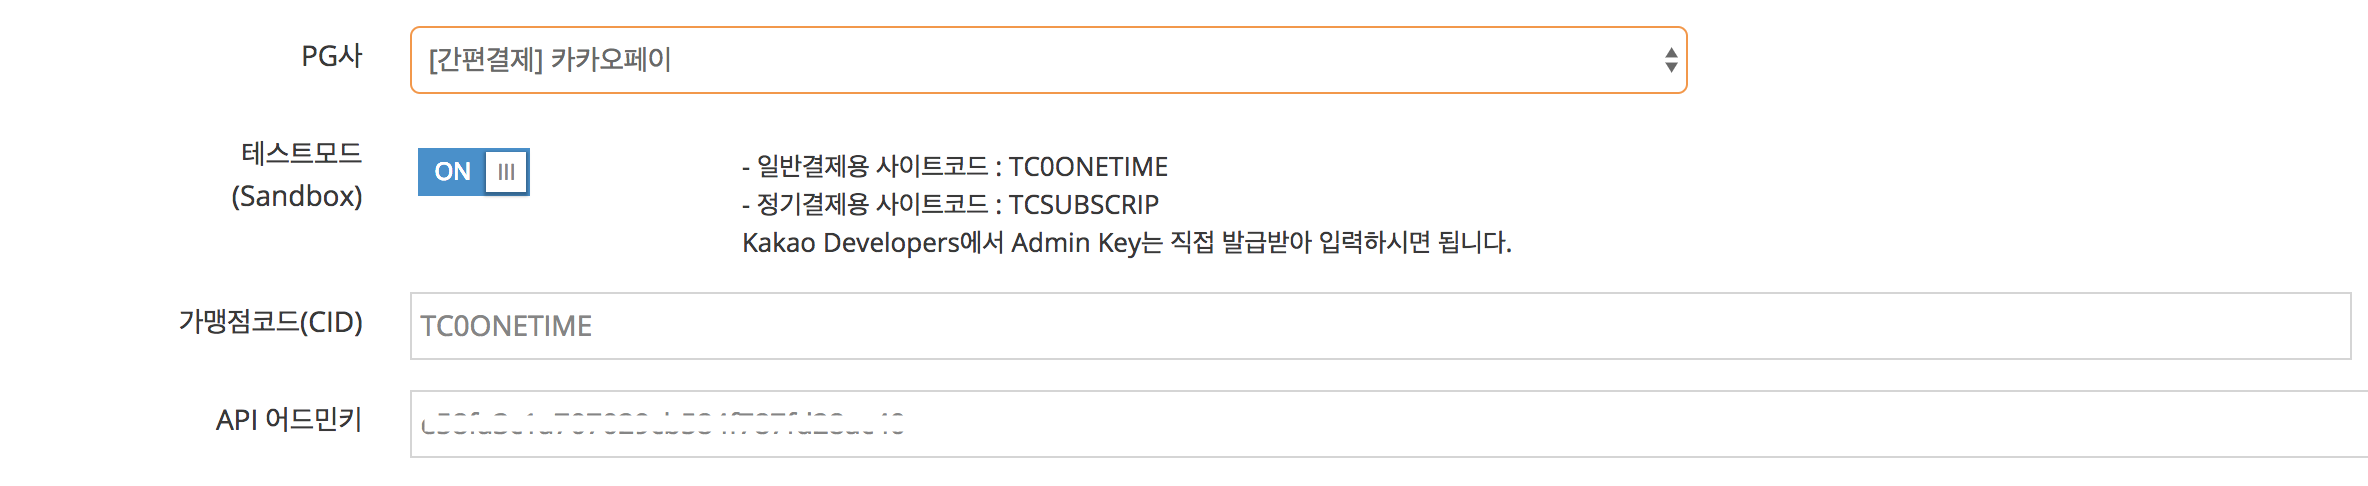
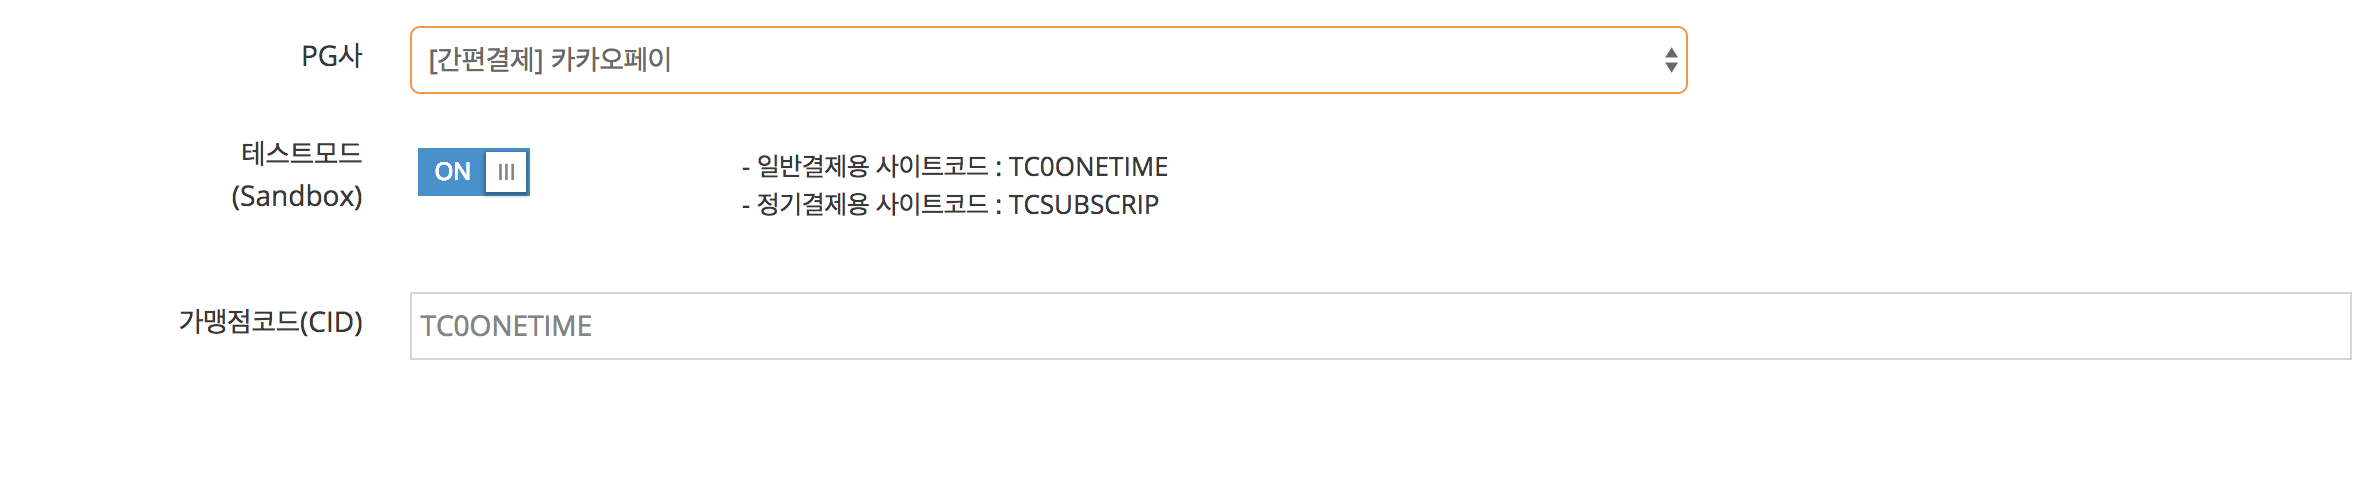
카카오페이 어드민키 입력받을 필요 없음

Changed region(s): [[0.0938, 0.8025, 1.0, 0.8951], [0.1875, 0.9259, 1.0, 0.9568], [0.3125, 0.463, 0.6562, 0.5247]]

diff --git a/인증결제/sample/kakao.md b/인증결제/sample/kakao.md
@@ -14,22 +14,12 @@
 
 1. PG사 : [간편결제] 카카오페이 선택 후, 테스트모드 설정 ON상태로 둡니다. 
 2. 가맹점코드(CID)에는, `TC0ONETIME` 를 입력합니다. 
-3. API 어드민 키는, [Kakao Developers](https://developers.kakao.com/)에서 API키를 발급받아 복사해넣습니다. 
-4. **API 어드민 키 발급시, 사이트 도메인은 `https://service.iamport.kr` 을 입력합니다.** 
-
-![카카오페이-Kakao Developers](screenshot/kakao-developers.png)
 
 ## 1.2 상용모드 설정  
 
 1. [아임포트 PG가입 페이지](http://www.iamport.kr)에서 카카오페이 가입 신청을 합니다. 
 2. PG사 : [간편결제] 카카오페이 선택 후, 테스트모드 설정 OFF상태로 둡니다. 
 3. 가맹점코드(CID)에는, 계약 후 발급받은 CID 를 입력합니다. 
-4. API 어드민 키는, [Kakao Developers](https://developers.kakao.com/)에서 API키를 발급받아 복사해넣습니다. (테스트모드에서 사용한 것과 구분하는 것을 권장합니다)
-5. **API 어드민 키 발급시, 사이트 도메인은 `https://service.iamport.kr` 을 입력합니다.** 
-
-![카카오페이-Kakao Developers](screenshot/kakao-developers.png)
-
-아임포트 플랫폼을 통해 결제가 이뤄지기 때문에, API 어드민 키 발급시 사이트 도메인은 `https://service.iamport.kr`를 반드시 입력해주셔야 합니다.  
 
 
 # 2. PC, 모바일 브라우저 연동  
